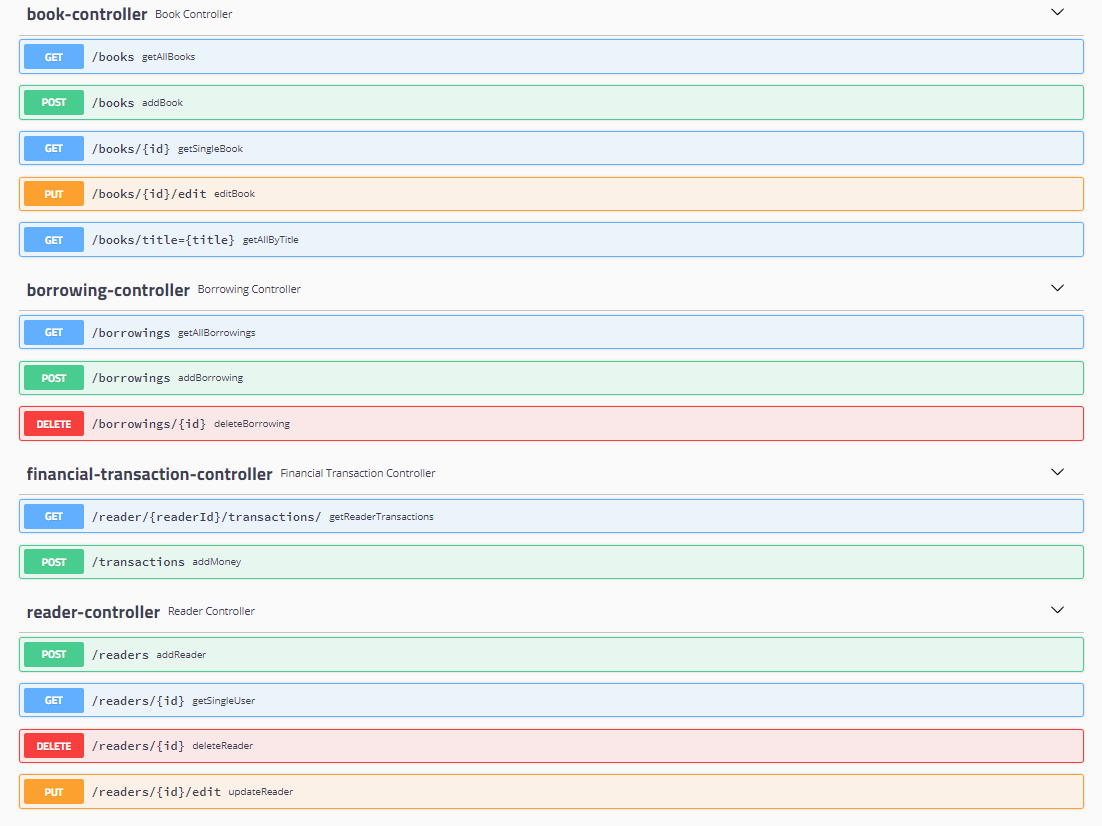
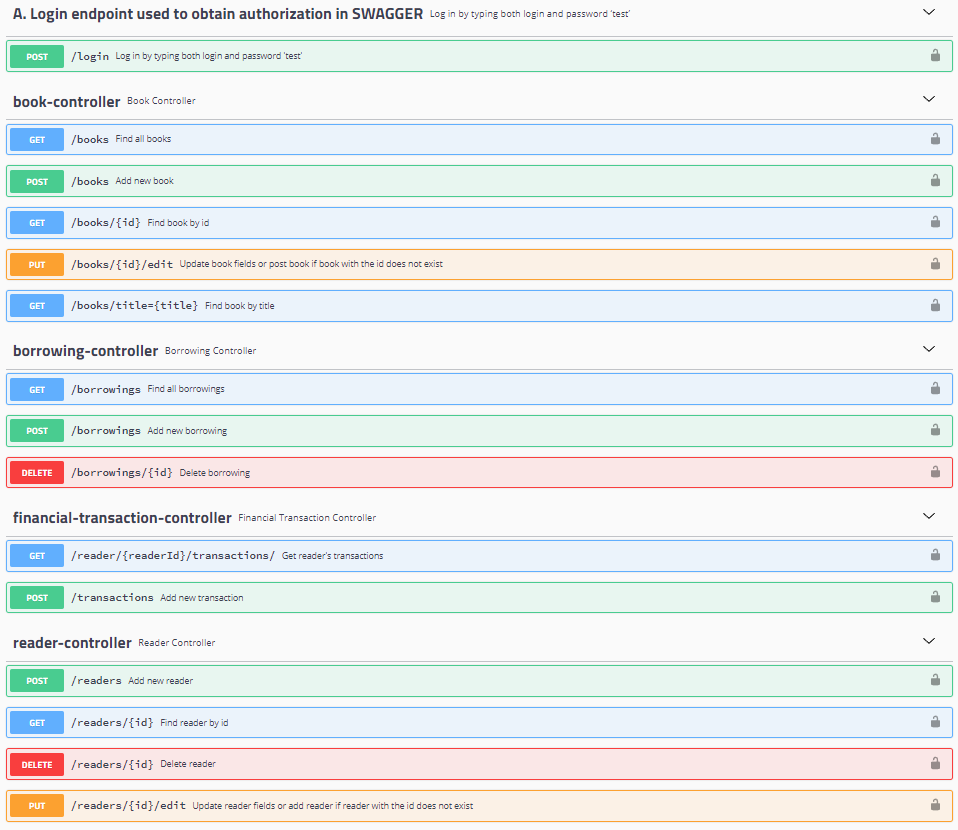
JWT added (administrator account)

Changed region(s): [[0.0, 0.0, 0.999, 0.9988]]

diff --git a/src/main/java/com/swietlicki/library/config/securityConfig/SecurityConfiguration.java b/src/main/java/com/swietlicki/library/config/securityConfig/SecurityConfiguration.java
@@ -1,7 +1,8 @@
-package com.swietlicki.library.config;
+package com.swietlicki.library.config.securityConfig;
 
 import com.fasterxml.jackson.databind.ObjectMapper;
-import lombok.RequiredArgsConstructor;
+import org.springframework.beans.factory.annotation.Value;
+import org.springframework.context.annotation.Bean;
 import org.springframework.context.annotation.Configuration;
 import org.springframework.http.HttpStatus;
 import org.springframework.security.config.annotation.authentication.builders.AuthenticationManagerBuilder;
@@ -9,28 +10,43 @@ import org.springframework.security.config.annotation.web.builders.HttpSecurity;
 import org.springframework.security.config.annotation.web.configuration.WebSecurityConfigurerAdapter;
 import org.springframework.security.config.http.SessionCreationPolicy;
 import org.springframework.security.crypto.bcrypt.BCryptPasswordEncoder;
+import org.springframework.security.provisioning.JdbcUserDetailsManager;
+import org.springframework.security.provisioning.UserDetailsManager;
 import org.springframework.security.web.authentication.HttpStatusEntryPoint;
-import org.springframework.security.web.authentication.UsernamePasswordAuthenticationFilter;
 
 import javax.sql.DataSource;
 
 @Configuration
-@RequiredArgsConstructor
-public class SecurityConfig extends WebSecurityConfigurerAdapter {
+public class SecurityConfiguration extends WebSecurityConfigurerAdapter {
 
-    private final DataSource datasource;
+    private final DataSource dataSource;
     private final ObjectMapper objectMapper;
     private final RestAuthenticationSuccessHandler successHandler;
-    private  final RestAuthenticationFailureHandler failureHandler;
+    private final RestAuthenticationFailureHandler failureHandler;
+    private final String secret;
 
+    public SecurityConfiguration(DataSource dataSource, ObjectMapper objectMapper,
+                                 RestAuthenticationSuccessHandler successHandler,
+                                 RestAuthenticationFailureHandler failureHandler,
+                                 @Value("${jwt.secret}") String secret) {
+        this.dataSource = dataSource;
+        this.objectMapper = objectMapper;
+        this.successHandler = successHandler;
+        this.failureHandler = failureHandler;
+        this.secret = secret;
+    }
+
+    /*  The uncommented code below creates a test user who must be authorized to access the service.
+        This user should be created only during the first run of the application
+     */
     @Override
     protected void configure(AuthenticationManagerBuilder auth) throws Exception {
         auth.jdbcAuthentication()
-                .withDefaultSchema()
-                .dataSource(datasource)
-                .withUser("test")
-                .password("{bcrypt}" + new BCryptPasswordEncoder().encode("test"))
-                .roles("USER");
+                .dataSource(dataSource)
+//                .withUser("test")
+//                .password("{bcrypt}" + new BCryptPasswordEncoder().encode("test"))
+//                .roles("USER")
+        ;
     }
 
     @Override
@@ -45,7 +61,10 @@ public class SecurityConfig extends WebSecurityConfigurerAdapter {
                 .antMatchers("/h2-console/**").permitAll()
                 .anyRequest().authenticated()
                 .and()
+                .sessionManagement().sessionCreationPolicy(SessionCreationPolicy.STATELESS)
+                .and()
                 .addFilter(authenticationFilter())
+                .addFilter(new JwtAuthorizationFilter(authenticationManager(), userDetailsManager(), secret))
                 .exceptionHandling()
                 .authenticationEntryPoint(new HttpStatusEntryPoint(HttpStatus.UNAUTHORIZED))
                 .and()
@@ -58,5 +77,10 @@ public class SecurityConfig extends WebSecurityConfigurerAdapter {
         authenticationFilter.setAuthenticationFailureHandler(failureHandler);
         authenticationFilter.setAuthenticationManager(super.authenticationManager());
         return authenticationFilter;
+    }
+
+    @Bean
+    public UserDetailsManager userDetailsManager() {
+        return new JdbcUserDetailsManager(dataSource);
     }
 }

diff --git a/src/main/java/com/swietlicki/library/config/securityConfig/JwtAuthorizationFilter.java b/src/main/java/com/swietlicki/library/config/securityConfig/JwtAuthorizationFilter.java
@@ -1,0 +1,57 @@
+package com.swietlicki.library.config.securityConfig;
+
+import com.auth0.jwt.JWT;
+import com.auth0.jwt.algorithms.Algorithm;
+import org.springframework.security.authentication.AuthenticationManager;
+import org.springframework.security.authentication.UsernamePasswordAuthenticationToken;
+import org.springframework.security.core.context.SecurityContextHolder;
+import org.springframework.security.core.userdetails.UserDetails;
+import org.springframework.security.core.userdetails.UserDetailsService;
+import org.springframework.security.web.authentication.www.BasicAuthenticationFilter;
+
+import javax.servlet.FilterChain;
+import javax.servlet.ServletException;
+import javax.servlet.http.HttpServletRequest;
+import javax.servlet.http.HttpServletResponse;
+import java.io.IOException;
+
+public class JwtAuthorizationFilter extends BasicAuthenticationFilter {
+    private static final String TOKEN_HEADER = "Authorization";
+    private static final String TOKEN_PREFIX = "Bearer ";
+    private final UserDetailsService userDetailsService;
+    private final String secret;
+
+    public JwtAuthorizationFilter(AuthenticationManager authenticationManager,
+                                  UserDetailsService userDetailsService,
+                                  String secret) {
+        super(authenticationManager);
+        this.userDetailsService = userDetailsService;
+        this.secret = secret;
+    }
+    @Override
+    protected void doFilterInternal(HttpServletRequest request, HttpServletResponse response,
+                                    FilterChain filterChain) throws IOException, ServletException {
+        UsernamePasswordAuthenticationToken authentication = getAuthentication(request);
+        if (authentication == null) {
+            filterChain.doFilter(request, response);
+            return;
+        }
+        SecurityContextHolder.getContext().setAuthentication(authentication);
+        filterChain.doFilter(request, response);
+    }
+
+    private UsernamePasswordAuthenticationToken getAuthentication(HttpServletRequest request) {
+        String token = request.getHeader(TOKEN_HEADER);
+        if (token != null && token.startsWith(TOKEN_PREFIX)) {
+            String userName = JWT.require(Algorithm.HMAC256(secret))
+                    .build()
+                    .verify(token.replace(TOKEN_PREFIX, ""))
+                    .getSubject();
+            if (userName != null) {
+                UserDetails userDetails = userDetailsService.loadUserByUsername(userName);
+                return new UsernamePasswordAuthenticationToken(userDetails.getUsername(), null, userDetails.getAuthorities());
+            }
+        }
+        return null;
+    }
+}

diff --git a/src/main/java/com/swietlicki/library/config/Config.java b/src/main/java/com/swietlicki/library/config/Config.java
@@ -4,11 +4,15 @@ import org.springframework.context.annotation.Bean;
 import org.springframework.context.annotation.Configuration;
 import springfox.documentation.builders.ApiInfoBuilder;
 import springfox.documentation.builders.PathSelectors;
-import springfox.documentation.service.ApiInfo;
-import springfox.documentation.service.Contact;
+import springfox.documentation.service.*;
 import springfox.documentation.spi.DocumentationType;
+import springfox.documentation.spi.service.contexts.SecurityContext;
 import springfox.documentation.spring.web.plugins.Docket;
 import springfox.documentation.swagger2.annotations.EnableSwagger2;
+
+import java.util.List;
+
+import static java.util.Collections.singletonList;
 
 @Configuration
 @EnableSwagger2
@@ -17,10 +21,33 @@ public class Config {
     @Bean
     public Docket swaggerApi() {
         return new Docket(DocumentationType.SWAGGER_2 )
+                .tags(new Tag("A. Login endpoint used to obtain authorization in SWAGGER",
+                        "Log in by typing both login and password 'test'"))
                 .select()
                 .paths(PathSelectors. regex ( "^(?!/(error).*$).*$" ))
                 .build()
+                .securitySchemes(singletonList(createSchema()))
+                .securityContexts(singletonList(createContext()))
                 .apiInfo(apiInfo());
+    }
+
+    private SecurityContext createContext() {
+        return SecurityContext.builder()
+                .securityReferences(createRef())
+                .forPaths(PathSelectors.any())
+                .build();
+    }
+
+    private List<SecurityReference> createRef() {
+        AuthorizationScope authorizationScope = new AuthorizationScope(
+                "global", "accessEverything");
+        AuthorizationScope[] authorizationScopes = new AuthorizationScope[1];
+        authorizationScopes[0] = authorizationScope;
+        return singletonList(new SecurityReference("apiKey", authorizationScopes));
+    }
+
+    private SecurityScheme createSchema() {
+        return new ApiKey("apiKey", "Authorization", "header");
     }
 
     private ApiInfo apiInfo() {

diff --git a/src/main/java/com/swietlicki/library/config/securityConfig/RestAuthenticationSuccessHandler.java b/src/main/java/com/swietlicki/library/config/securityConfig/RestAuthenticationSuccessHandler.java
@@ -1,0 +1,41 @@
+package com.swietlicki.library.config.securityConfig;
+
+import com.auth0.jwt.JWT;
+import com.auth0.jwt.algorithms.Algorithm;
+import lombok.NoArgsConstructor;
+import org.springframework.beans.factory.annotation.Value;
+import org.springframework.security.core.Authentication;
+import org.springframework.security.core.userdetails.UserDetails;
+import org.springframework.security.web.authentication.SimpleUrlAuthenticationSuccessHandler;
+import org.springframework.stereotype.Component;
+
+import javax.servlet.ServletException;
+import javax.servlet.http.HttpServletRequest;
+import javax.servlet.http.HttpServletResponse;
+import java.io.IOException;
+import java.util.Date;
+
+@Component
+public class RestAuthenticationSuccessHandler extends SimpleUrlAuthenticationSuccessHandler {
+
+    private final long expirationTime;
+    private final String secret;
+
+    public RestAuthenticationSuccessHandler(
+            @Value("${jwt.expirationTime}")long expirationTime,
+            @Value("${jwt.secret}") String secret) {
+        this.expirationTime = expirationTime;
+        this.secret = secret;
+    }
+
+    @Override
+    public void onAuthenticationSuccess(HttpServletRequest request, HttpServletResponse response,
+                                        Authentication authentication) throws IOException, ServletException {
+        UserDetails principal = (UserDetails) authentication.getPrincipal();
+        String token = JWT.create()
+                .withSubject(principal.getUsername())
+                .withExpiresAt(new Date(System.currentTimeMillis() + expirationTime))
+                .sign(Algorithm.HMAC256(secret));
+        response.addHeader("Authorization", "Bearer " + token);
+    }
+}

diff --git a/src/main/java/com/swietlicki/library/controller/LoginController.java b/src/main/java/com/swietlicki/library/controller/LoginController.java
@@ -1,15 +1,18 @@
 package com.swietlicki.library.controller;
 
-import com.swietlicki.library.config.LoginCredentials;
+import com.swietlicki.library.config.securityConfig.LoginCredentials;
+import io.swagger.annotations.Api;
+import io.swagger.annotations.ApiOperation;
 import org.springframework.web.bind.annotation.PostMapping;
 import org.springframework.web.bind.annotation.RequestBody;
 import org.springframework.web.bind.annotation.RestController;
 
 @RestController
+@Api(value = "", tags = "A. Login endpoint used to obtain authorization in SWAGGER")
 public class LoginController {
 
+    @ApiOperation(value = "Log in by typing both login and password 'test'")
     @PostMapping("/login")
     public void login(@RequestBody LoginCredentials credentials) {
-
     }
 }

diff --git a/src/main/java/com/swietlicki/library/config/securityConfig/RestAuthenticationFailureHandler.java b/src/main/java/com/swietlicki/library/config/securityConfig/RestAuthenticationFailureHandler.java
@@ -1,4 +1,4 @@
-package com.swietlicki.library.config;
+package com.swietlicki.library.config.securityConfig;
 
 import org.springframework.security.core.AuthenticationException;
 import org.springframework.security.web.authentication.SimpleUrlAuthenticationFailureHandler;

diff --git a/src/main/java/com/swietlicki/library/config/securityConfig/JsonObjectAuthenticationFilter.java b/src/main/java/com/swietlicki/library/config/securityConfig/JsonObjectAuthenticationFilter.java
@@ -1,4 +1,4 @@
-package com.swietlicki.library.config;
+package com.swietlicki.library.config.securityConfig;
 
 import com.fasterxml.jackson.databind.ObjectMapper;
 import org.springframework.security.authentication.UsernamePasswordAuthenticationToken;

diff --git a/src/main/java/com/swietlicki/library/config/securityConfig/LoginCredentials.java b/src/main/java/com/swietlicki/library/config/securityConfig/LoginCredentials.java
@@ -1,4 +1,4 @@
-package com.swietlicki.library.config;
+package com.swietlicki.library.config.securityConfig;
 
 import lombok.Getter;
 

diff --git a/README.md b/README.md
@@ -1,8 +1,9 @@
 # LibraryWebService
 ---
-This application is created to learn the Spring Boot framework. 
-__LibraryWebService__ currently allows you to manage the library service (book management, user management, loans, returns, penalty fees). 
-In the future it is planned to add a module that will suggest readers specific items to borrow based on their borrowing history.
+This application is created to learn the Spring Boot framework.
+__LibraryWebService__ currently allows you to manage the library service (book management, user management, loans, returns, penalty fees).
+In the future it is planned to add, among other things, a module that will suggest readers specific items to borrow based on their borrowing history.
+The application is embedded in Heroku, so you can run it quickly and easily.
 
 ### Table of contents
 
@@ -13,6 +14,10 @@ In the future it is planned to add a module that will suggest readers specific i
 * [Data source](#data-source)
 
 * [Presentation](#presentation)
+
+* [Accessing secured endpoints](accessing-secured-endpoints)
+
+* [Heroku](#heroku)
 
 * [Status](#status)
 
@@ -26,13 +31,15 @@ In the future it is planned to add a module that will suggest readers specific i
 
 * JPA
 
-* H2 Database
+* Spring Security
+
+* PostgreSQL
 
 * Swagger
 
 ### Data source
 ---
-The project is based on a collection of books from the Kaggle website. Data contains more than 11,000 items.
+The project is based on a collection of books from the Kaggle website. Data contains more than 9,000 items.
 (https://www.kaggle.com/datasets/jealousleopard/goodreadsbooks).
 
 ### Presentation
@@ -41,7 +48,7 @@ Here is an actual database schema which is in progress.
 
 ![Database schema](https://github.com/swietlik23/LibraryWebService/blob/main/picturesToReadeMe/dbschema.PNG)
 
-_Swagger endpoints_
+_Swagger endpoints_ (to access them, you need to go through an authorization process -> see section below)
 
 ![SwaggerEndpoints](https://github.com/swietlik23/LibraryWebService/blob/main/picturesToReadeMe/swagger_endpoints.PNG)
 
@@ -61,9 +68,35 @@ _Get financial transactions after books returning and money transfer (SWAGGER)_
 
 ![GetFinancialTransactions](https://github.com/swietlik23/LibraryWebService/blob/main/picturesToReadeMe/getReaderFinancialTransactionsAfterReturning.PNG)
 
+### Accessing secured endpoints
+---
+In order to access secure endpoints, you need to go through the authentication process according to the following instructions.
+The token validity time is set to __10 minutes__.
+
+_Step #1_
+
+![Log in #1](https://github.com/swietlik23/LibraryWebService/blob/main/picturesToReadeMe/login1.PNG)
+
+_Step #2_
+
+![Log in #2](https://github.com/swietlik23/LibraryWebService/blob/main/picturesToReadeMe/login2.PNG)
+
+_Step #3_
+
+![Log in #3](https://github.com/swietlik23/LibraryWebService/blob/main/picturesToReadeMe/login3.PNG)
+
+_Step #4_
+
+![Log in #4](https://github.com/swietlik23/LibraryWebService/blob/main/picturesToReadeMe/login4.PNG)
+
+
+### Heroku
+---
+You can test the application on Heroku: https://libraryservice.herokuapp.com/swagger-ui.html#/
+
 ### Status
 ---
-Project is in progress with some active features and another improvements to make.
+The project is in progress with some active features and another improvements to make.
 
 ##### _Features_
 
@@ -73,7 +106,11 @@ Project is in progress with some active features and another improvements to mak
 
 * Automatic calculation of penalty charges if the return deadline is exceeded
 
+* An authorization necessary to access endpoints
+
 ##### _To do_
+
+* Updating of response statuses
 
 * Implementation of administrator and user accounts
 
@@ -85,5 +122,6 @@ Project is in progress with some active features and another improvements to mak
 
 * Email and sms notification service (notifications of upcoming return date)
 
----
+* Integration Testing
 
+---
